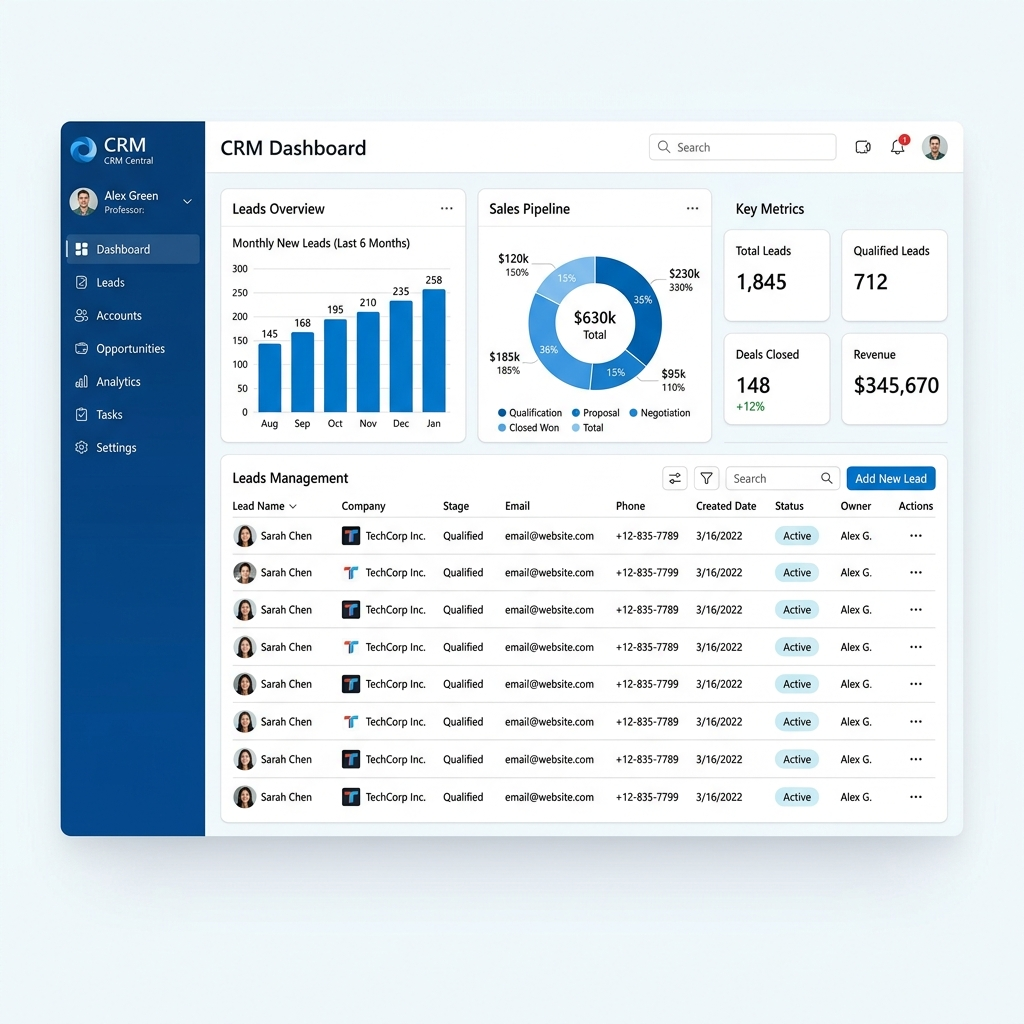
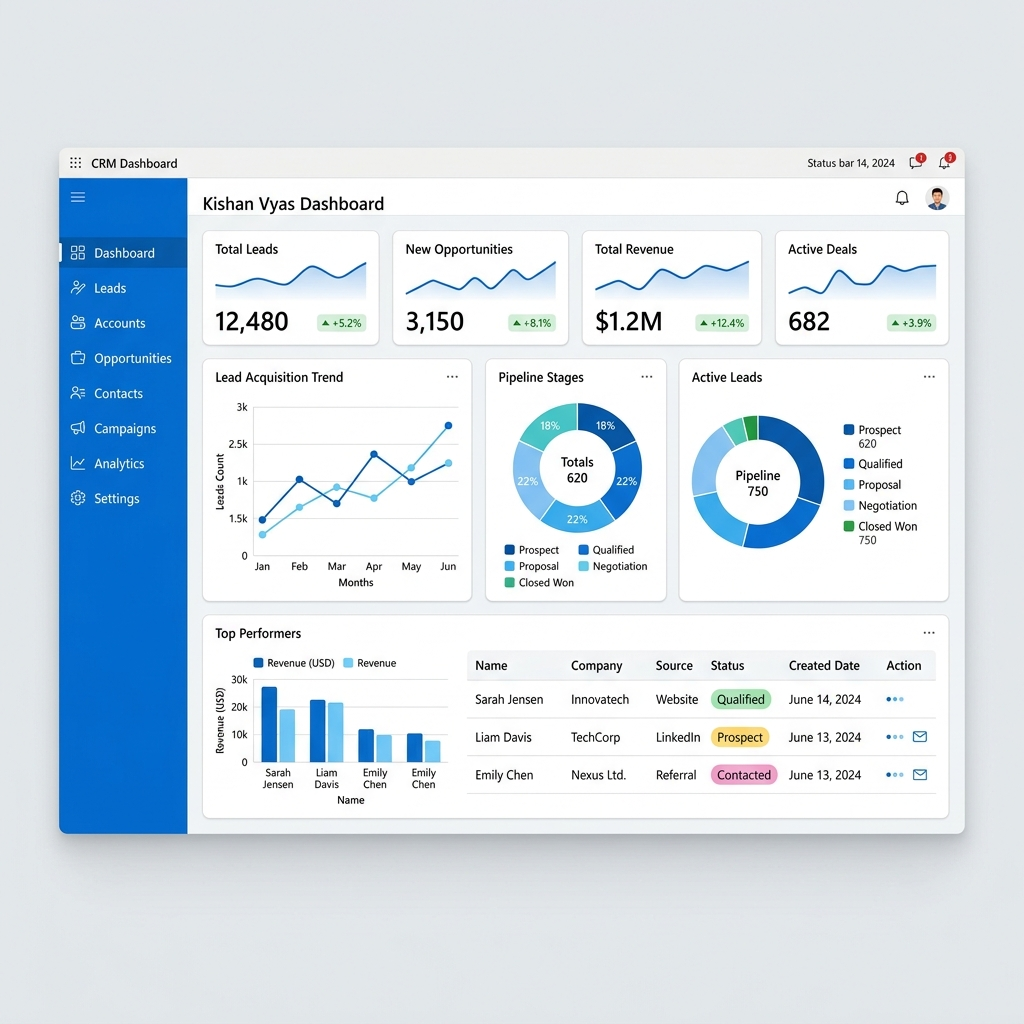
Regenerate dashboard with personal branding and clarify project as a portfolio demonstration

diff --git a/README.md b/README.md
@@ -1,8 +1,9 @@
 <div align="center">
   <img src="https://upload.wikimedia.org/wikipedia/commons/4/44/Microsoft_logo.svg" alt="Microsoft Logo" width="120" />
-  <h1>Enterprise CRM Workflow Management</h1>
-  <p><strong>A robust Customer Relationship Management solution built with Microsoft PowerApps & Power Automate.</strong></p>
+  <h1>CRM Workflow Automation Demonstration</h1>
+  <p><strong>A foundational Customer Relationship Management solution built with Microsoft PowerApps & Power Automate.</strong></p>
   
+  [![Author](https://img.shields.io/badge/Developed_by-Kishan_Vyas-0078D4?style=for-the-badge)]()
   [![PowerApps](https://img.shields.io/badge/PowerApps-Microsoft-0078D4?style=for-the-badge&logo=microsoft)](https://powerapps.microsoft.com/)
   [![Power Automate](https://img.shields.io/badge/Power_Automate-Workflow-0078D4?style=for-the-badge&logo=microsoft)](https://powerautomate.microsoft.com/)
 </div>
@@ -10,24 +11,24 @@
 <br />
 
 ![Reference Dashboard UI Overview](./assets/crm_dashboard_mockup.png)
-*Figure: Reference Dashboard UI Overview*
+*Figure: Reference Dashboard UI Overview (Kishan Vyas)*
 
 ## Project Overview
-This repository contains the architecture, schema definitions, and exported workflows for an Enterprise CRM System built on the Microsoft Power Platform.
+This repository contains the architecture, schema definitions, and exported workflows for a CRM System built as a demonstration on the Microsoft Power Platform.
 
-The solution replaces legacy manual spreadsheet-based lead tracking methods. By implementing a centralized Dataverse schema, a responsive Canvas PowerApp, and logic via Power Automate, the system reduces manual data entry and enforces standard sales processes.
+The solution was developed to showcase proficiency in implementing a centralized Dataverse schema, building a responsive Canvas PowerApp, and engineering automated logic via Power Automate. It aims to demonstrate how manual data entry can be reduced and standard sales processes can be enforced using modern low-code tools.
 
-### Key Features & Impact
-* **Automated Lead Routing:** Decreased lead assignment processing time significantly.
-* **Unified Dashboard:** Provides sales teams with a centralized view for leads, opportunities, and accounts.
-* **Data Integrity:** Limits duplicate CRM entries by leveraging Dataverse alternate keys and Power Automate validation.
-* **Notifications:** Standard Outlook and Teams notifications mapped to opportunity stage changes.
+### Key Capabilities Demonstrated
+* **Automated Lead Routing:** Architected flows that dynamically assign leads based on Regional territories.
+* **Unified Dashboard Interface:** Designed a structured view for leads, opportunities, and accounts suitable for a sales team.
+* **Data Integrity:** Implemented Dataverse Alternate Keys and validation mechanisms to prevent duplicate CRM entries.
+* **System Integration:** Engineered logic to interface with external systems (Microsoft Teams and Office 365 Outlook) for state-change alerts.
 
 ---
 
 ## System Architecture
 
-The solution utilizes Dataverse as the primary data layer.
+The solution utilizes Dataverse as the primary data layer, demonstrating a decoupled and scalable architecture.
 
 ```mermaid
 graph TD
@@ -98,7 +99,7 @@ CRM-PowerApps-Workflow/
 ---
 
 ## Data Model Schema (Dataverse)
-The CRM relies on three primary Dataverse tables:
+The CRM demonstrates database normalization via three primary Dataverse tables:
 
 1. **`cr_Lead`**: Captures raw incoming inquiries.
 2. **`cr_Account`**: Represents a validated business entity.
@@ -108,25 +109,25 @@ The CRM relies on three primary Dataverse tables:
 
 ---
 
-## Core Workflows
+## Core Workflows Showcased
 
 ### 1. Lead Routing
 * **Trigger:** Row added to `cr_Lead`.
-* **Logic:** Evaluates the `cr_territory` field. If `North India` (Delhi NCR, Punjab, Haryana) or `West India` (Maharashtra, Gujarat), assigns to the respective regional sales queue (e.g. assigning to Regional Manager Amit Desai). Otherwise, routes to the Central Sales Queue managed by the inside sales team.
-* **Action:** Sends an Office 365 Email to the allocated owner.
+* **Logic:** Evaluates the `cr_territory` field. If `North India` or `West India`, assigns to the regional sales manager. Otherwise, routes to the Central Sales Queue.
+* **Action:** Sends an Office 365 Email to the allocated owner upon successful record assignment.
 
 ### 2. Opportunity Notification
 * **Trigger:** Status changes to "Won" on `cr_Opportunity`.
-* **Logic:** Retrieves Account and Revenue values.
-* **Action:** Posts an Adaptive Card into the "India Sales Wins" Microsoft Teams channel.
+* **Logic:** Retrieves linked Account and Revenue values using standard FetchXML operations in Power Automate.
+* **Action:** Constructs and posts an Adaptive Card into the relevant Microsoft Teams channel to notify the team.
 
 ---
 
-## Setup & Configuration
-To implement this inside a Power Platform Tenant:
+## Setup & Configuration Guide
+To import these structural examples into a Power Platform Tenant:
 
-1. Go to [Power Apps Maker Portal](https://make.powerapps.com).
+1. Navigate to the [Power Apps Maker Portal](https://make.powerapps.com).
 2. Validate you hold the **System Customizer** role.
-3. Import schemas from `src/dataverse_schema/` to establish baseline tables.
-4. Import the provided Flows from `src/workflows/` via the import wizard.
-5. Authorize connections for Office Outlook and Microsoft Teams connectors.
+3. Use the schemas in `src/dataverse_schema/` to define the custom tables natively.
+4. Import the provided Logic constructs from `src/workflows/`.
+5. Authorize credential handshakes for the Office Outlook and Microsoft Teams connections if necessary.
